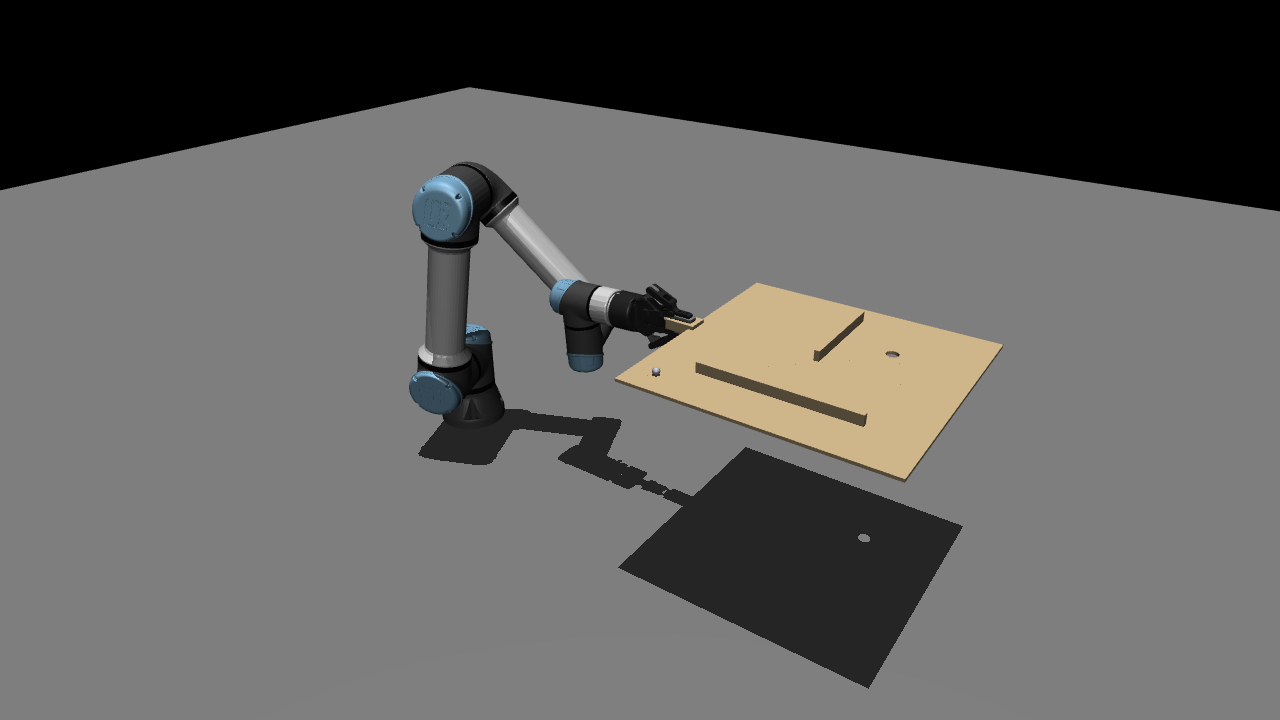
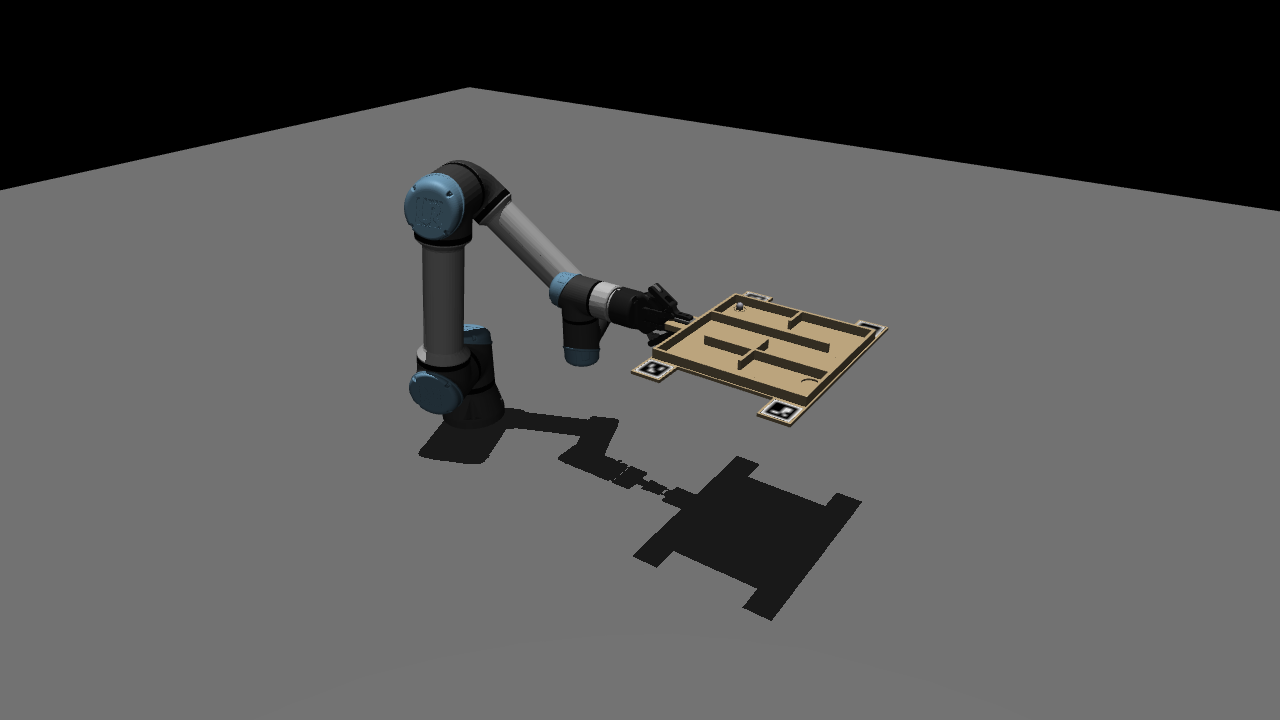
[sim] matte board and dimmer headlight so the board no longer renders white
The default headlight plus the overhead light's specular reflection off the
board clipped its floor to near white. The wood and the ArUco stickers are now
matte and the headlight is dimmed; the room light keeps its specular so the
steel ball still shows a highlight. Clipped board pixels drop from 8.5% to
0.3% and ArUco ids 0-3 are still detected. test_render checks the floor stays
wood-coloured. README media re-rendered with the L1 maze.

Closes #20

Changed region(s): [[0.3125, 0.2139, 0.7812, 0.9472], [0.375, 0.5806, 0.4062, 0.6417]]

diff --git a/src/maze_sim_description/maze_sim_description/board_assets.py b/src/maze_sim_description/maze_sim_description/board_assets.py
@@ -165,11 +165,12 @@ def board_mjcf_fragment(assets, mass, friction):
     """<asset> and <worldbody> with a free body "board": visual geoms (group 1, no contact)
     and one collision geom per convex piece (group 3), plus the textured markers (group 1, no
     contact). Mesh files resolve against meshdir, marker textures against texturedir."""
-    assets_xml, geoms = [], []
+    # wood and paper are matte: without specular="0" the overhead light glares white off them
+    assets_xml, geoms = ['<material name="board_wood" rgba="0.82 0.72 0.55 1" specular="0"/>'], []
     for p in assets.visual_meshes:
         name = f"board_{p.stem}"
         assets_xml.append(f'<mesh name="{name}" file="{p.name}"/>')
-        geoms.append(f'<geom type="mesh" mesh="{name}" group="1" contype="0" conaffinity="0" rgba="0.82 0.72 0.55 1"/>')
+        geoms.append(f'<geom type="mesh" mesh="{name}" material="board_wood" group="1" contype="0" conaffinity="0"/>')
     fr = " ".join(f"{v:g}" for v in friction)
     for p in assets.collision_meshes:
         name = f"board_col_{p.stem}"
@@ -179,7 +180,7 @@ def board_mjcf_fragment(assets, mass, friction):
         name = f"board_{p.stem}"
         assets_xml.append(
             f'<texture name="{name}" type="2d" file="{p.stem}.png"/>'
-            f'<material name="{name}" texture="{name}"/><mesh name="{name}" file="{p.name}"/>'
+            f'<material name="{name}" texture="{name}" specular="0"/><mesh name="{name}" file="{p.name}"/>'
         )
         geoms.append(f'<geom name="{name}" type="mesh" mesh="{name}" material="{name}" group="1" contype="0" conaffinity="0"/>')
     ixx, iyy, izz = _plate_inertia(mass, assets.extent_m)

diff --git a/src/maze_sim_description/test/test_render.py b/src/maze_sim_description/test/test_render.py
@@ -1,0 +1,34 @@
+"""The overhead camera's image: the board must not be clipped, so colour thresholds tuned on it
+(HSV ball tracking, ArUco) mean something on the real C922."""
+
+import mujoco
+import numpy as np
+
+
+
+def _render(model, data, cfg):
+    w, h = cfg.camera.resolution
+    with mujoco.Renderer(model, height=h, width=w) as r:
+        r.update_scene(data, camera="overhead_camera")
+        return r.render().astype(float)
+
+
+def _pixel(model, data, cfg, p_world):
+    """Pixel (u, v) of a world point in the overhead camera, MuJoCo's own projection."""
+    cam = data.cam("overhead_camera")
+    R = cam.xmat.reshape(3, 3)  # columns: camera x (right), y (up), -z (view)
+    p = R.T @ (np.asarray(p_world) - cam.xpos)
+    w, h = cfg.camera.resolution
+    f = (h / 2) / np.tan(np.radians(model.cam_fovy[model.camera("overhead_camera").id]) / 2)
+    return int(round(w / 2 + f * p[0] / -p[2])), int(round(h / 2 - f * p[1] / -p[2]))
+
+
+def test_board_floor_not_clipped(model, data, cfg):
+    # bare floor inside the start cell, 15 mm from the ball
+    R_b = data.body("board").xmat.reshape(3, 3)
+    floor = data.body("board").xpos + R_b @ np.array([cfg.ball.start[0], cfg.ball.start[1] - 0.015, 0.0])
+    u, v = _pixel(model, data, cfg, floor)
+    rgb = _render(model, data, cfg)[v - 2 : v + 3, u - 2 : u + 3].reshape(-1, 3).mean(axis=0)
+    assert rgb.max() < 245, f"board floor clipped: {rgb}"
+    r, g, b = rgb
+    assert r > g > b and b / r < 0.8, f"board floor not wood-coloured: {rgb}"  # wood is (0.82, 0.72, 0.55)

diff --git a/src/maze_sim_description/maze_sim_description/scene_builder.py b/src/maze_sim_description/maze_sim_description/scene_builder.py
@@ -182,7 +182,12 @@ def _compose(cfg, board):
     )
 
     spec.worldbody.add_geom(name="table", type=mujoco.mjtGeom.mjGEOM_PLANE, size=[3, 3, 0.05], rgba=[0.5, 0.5, 0.5, 1])
+    # Room light from above, specular kept so the steel ball shows a highlight; the camera-side
+    # headlight dimmed and without specular, or the lit board clips (test_render)
     spec.worldbody.add_light(pos=[0.5, 0, 3], dir=[0, 0, -1], type=mujoco.mjtLightType.mjLIGHT_DIRECTIONAL)
+    spec.visual.headlight.ambient = [0.1, 0.1, 0.1]
+    spec.visual.headlight.diffuse = [0.2, 0.2, 0.2]
+    spec.visual.headlight.specular = [0.0, 0.0, 0.0]
 
     w, h = cfg.camera.resolution
     hfov = np.radians(cfg.camera.hfov_deg)

diff --git a/README.md b/README.md
@@ -56,9 +56,9 @@ distrobox rm -f maze-sim && ./docker/build.sh && distrobox assemble create --fil
 
 A MuJoCo scene of the lab UR7e holding the maze board with its Robotiq 2F-85, plus an overhead camera, behind the same ROS 2 interface as the real robot. Lab code switches between sim and robot by changing the launch file, not the code. The design is in [`docs/superpowers/specs/2026-11-08-simulation-s1-design.md`](docs/superpowers/specs/2026-11-08-simulation-s1-design.md).
 
-![The UR7e holding the placeholder maze board at the start pose](docs/media/sim.png)
+![The UR7e holding the L1 maze board at the start pose](docs/media/sim.png)
 
-*The start pose after the automatic reset, rendered from the sim's own MuJoCo scene. The board is a placeholder until the CAD export (below) arrives.*
+*The start pose after the automatic reset, rendered from the sim's own MuJoCo scene: the L1 maze, its four ArUco stickers and the ball in the start cell.*
 
 ### Prerequisites
 
@@ -112,7 +112,7 @@ ros2 control switch_controllers --deactivate scaled_joint_trajectory_controller 
 ros2 topic pub -r 50 /forward_velocity_controller/commands std_msgs/msg/Float64MultiArray "{data: [0, 0, 0, 0, 0, 0.1]}"
 ```
 
-![wrist_3 velocity commands tilt the board one way, then back; the ball rolls about 15 cm and stops](docs/media/velocity_control.gif)
+![wrist_3 velocity commands tilt the board one way, then back; the ball rolls about 7 cm in the L1 maze](docs/media/velocity_control.gif)
 
 *Recorded from the sim through ROS: `wrist_3` at −0.1 rad/s for 0.5 s, +0.1 rad/s for 1 s, −0.1 rad/s for 0.5 s (a 3° tilt each way). Rendered from the recorded joint and pose topics with the sim's MuJoCo scene.*
 
